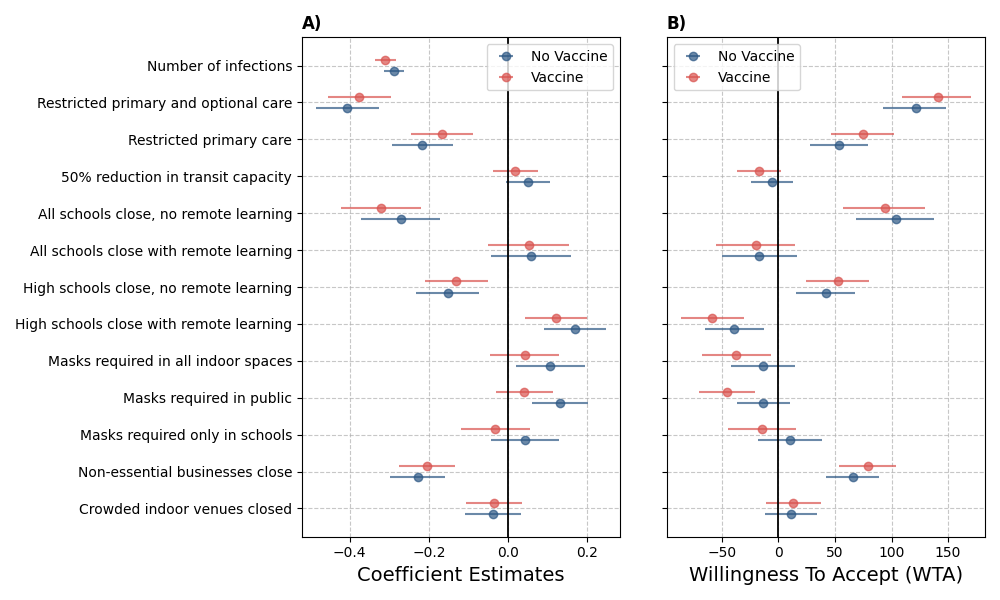
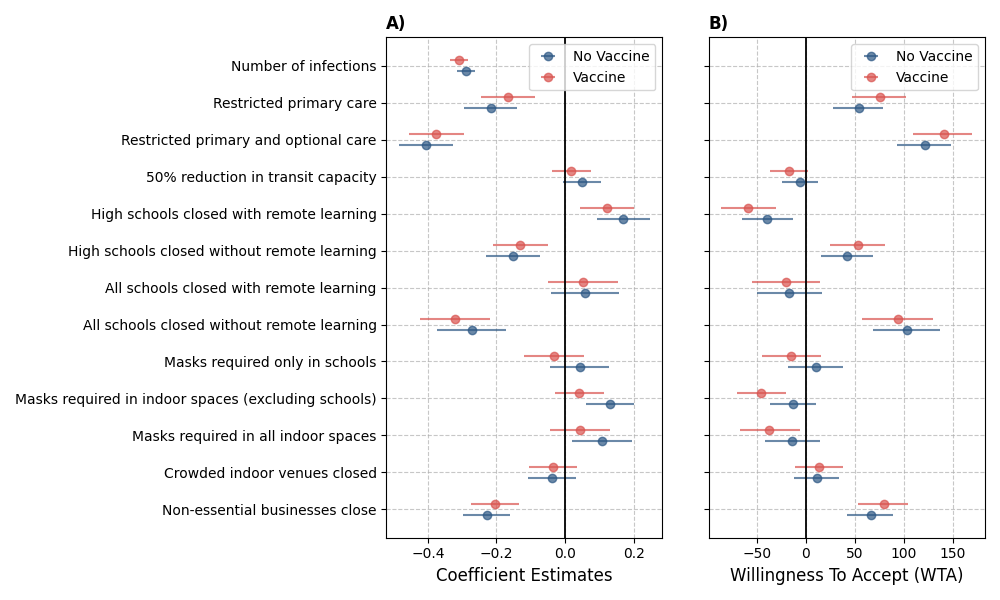
2 axes added

diff --git a/support/fig_support.py b/support/fig_support.py
@@ -3,12 +3,12 @@ import numpy as np
 
 def add_to_ax(ax,
               lists_of_estimates,
-              lists_of_ci,
+              lists_of_errs,
               x_axis_label,
               colors, labels,
               y_axis_labels=None,
               legend_loc='upper right',
-              distance_between_bars=None,):
+              distance_between_bars=None, ):
 
     # number of lists
     n = len(lists_of_estimates)
@@ -21,8 +21,8 @@ def add_to_ax(ax,
 
     for i, this_list in enumerate(lists_of_estimates):
         ax.errorbar(this_list,
-                    np.arange(len(this_list))+diffs[i],
-                    xerr=lists_of_ci[i],
+                    np.arange(len(this_list)) + diffs[i],
+                    xerr=lists_of_errs[i],
                     fmt='o', color=colors[i], ecolor=colors[i], capsize=0, alpha=0.7,
                     label=labels[i])
 
@@ -34,3 +34,36 @@ def add_to_ax(ax,
     ax.axvline(x=0, color='black', linestyle='-', linewidth=1.3)
     ax.grid(True, linestyle='--', alpha=0.7)
     ax.legend(loc=legend_loc, fontsize=10)
+
+
+def add_to_2_axes(axes,
+                  lists_of_estimates_left,
+                  lists_of_errs_left,
+                  lists_of_estimates_right,
+                  lists_of_errs_right,
+                  x_axis_label_left,
+                  x_axis_label_right,
+                  colors, labels,
+                  y_axis_labels=None,
+                  legend_loc='upper right',
+                  distance_between_bars=None):
+
+    # add left
+    add_to_ax(ax=axes[0],
+              lists_of_estimates=lists_of_estimates_left,
+              lists_of_errs=lists_of_errs_left,
+              x_axis_label=x_axis_label_left,
+              colors=colors,
+              labels=labels,
+              y_axis_labels=y_axis_labels,
+              distance_between_bars=distance_between_bars)
+
+    # add right
+    add_to_ax(ax=axes[1],
+              lists_of_estimates=lists_of_estimates_right,
+              lists_of_errs=lists_of_errs_right,
+              x_axis_label=x_axis_label_right,
+              colors=colors,
+              labels=labels,
+              legend_loc=legend_loc,
+              distance_between_bars=distance_between_bars)

diff --git a/main_fig.py b/main_fig.py
@@ -2,7 +2,7 @@ import matplotlib.pyplot as plt
 import pandas as pd
 
 from defenisions import *
-from support.fig_support import add_to_ax
+from support.fig_support import add_to_2_axes
 from support.func_support import get_coeff_estimates_and_errs, get_wtas_cis
 
 FIG_SIZE = (10, 6)
@@ -28,25 +28,21 @@ fig, ax = plt.subplots(1, 2, figsize=FIG_SIZE, sharey=True)
 ax[0].set_title('A)', loc='left', weight='bold')
 ax[1].set_title('B)', loc='left', weight='bold')
 
-# plot coefficients
-add_to_ax(ax=ax[0],
-          lists_of_estimates=[coefs_no_vaccine, coefs_vaccine],
-          lists_of_ci=[errs_no_vaccine, errs_coefs_vaccine],
-          y_axis_labels=dict_coeff_labels.values(),
-          x_axis_label='Coefficient Estimates',
-          colors=['#2C5784', '#D9534F'],
-          labels=['No Vaccine', 'Vaccine'],
-          legend_loc='upper right',
-          distance_between_bars=0.3)
-
-add_to_ax(ax=ax[1],
-          lists_of_estimates=[wtp_no_vaccine, wtp_vaccine],
-          lists_of_ci=[wtp_errs_no_vaccine, wtp_errs_vaccine],
-          x_axis_label='Willingness To Accept (WTA)',
-          colors=['#2C5784', '#D9534F'],
-          labels=['No Vaccine', 'Vaccine'],
-          legend_loc='upper left',
-          distance_between_bars=0.3)
+# plot coefficient and wta estimates side by side
+add_to_2_axes(
+    axes=ax,
+    lists_of_estimates_left=[coefs_no_vaccine, coefs_vaccine],
+    lists_of_errs_left=[errs_no_vaccine, errs_coefs_vaccine],
+    lists_of_estimates_right=[wtp_no_vaccine, wtp_vaccine],
+    lists_of_errs_right=[wtp_errs_no_vaccine, wtp_errs_vaccine],
+    x_axis_label_left='Coefficient Estimates',
+    x_axis_label_right='Willingness To Accept (WTA)',
+    colors=['#2C5784', '#D9534F'],
+    labels=['No Vaccine', 'Vaccine'],
+    y_axis_labels=dict_coeff_labels.values(),
+    legend_loc='upper right',
+    distance_between_bars=0.3
+)
 
 plt.tight_layout(w_pad=3)
 plt.savefig('figs/coeffs_and_wta.png')
